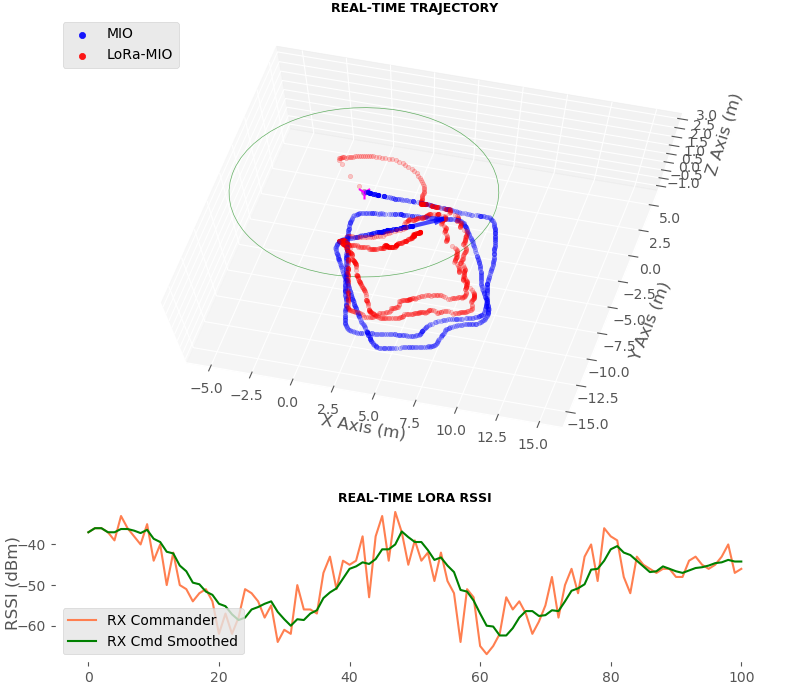
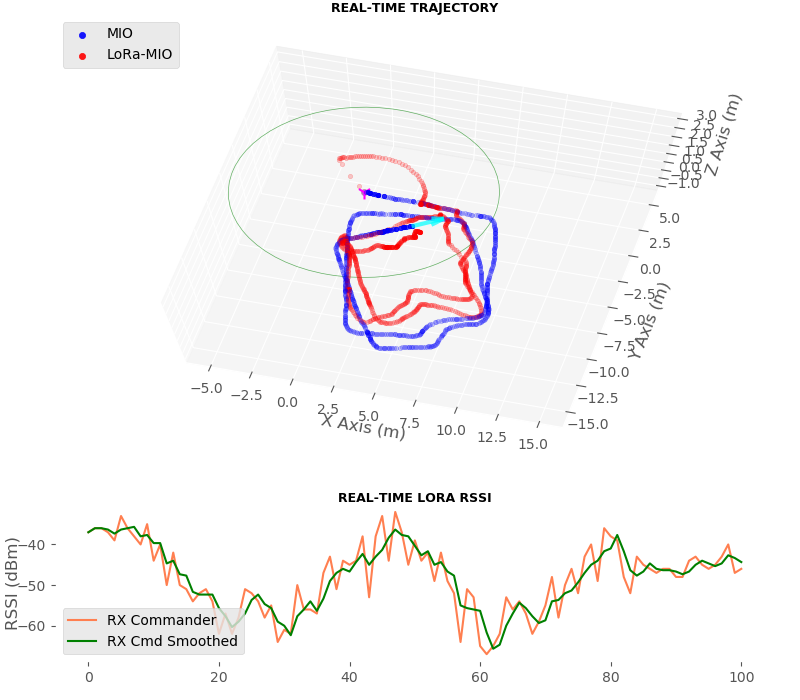
Applied RSSI smoothing at 10Hz; Added RMSE calculator: rmse_left2 = 1.9763m; rmse_left3 = 4.0903m

diff --git a/EKF.py b/EKF.py
@@ -443,6 +443,7 @@ class EKF_Fusion():
         self.rssi_list.extend(rssis)
         if self.anchor:
             self.smoothed_rssi_list.append(self.smoother(self.rssi_list))
+        # TODO Anchor 2,3 not smoothed yet
         if self.anchor >= 2:
             self.rssi_list2.append(rssis[1])
         if self.anchor >= 3:
@@ -559,7 +560,19 @@ class EKF_Fusion():
                 self.rt_show(odom_idx=-g)
 
 
-    def smoother(self, lst, window_size=5, mode='conv'):
+    def rms_traj(self):
+        traj1 = [self.path_dense[i][0:2] for i in range(len(self.path_dense))]
+        traj1 = np.asarray(traj1)
+        traj2 = [self.xs[i][0:2, 0] for i in range(len(self.xs))]
+        traj2 = np.asarray(traj2)
+
+        sqr_sum = 0.
+        for row in range(traj2.shape[0]):
+            sqr_sum += (traj1[row, 0] - traj2[row, 0])**2 + (traj1[row, 1] - traj2[row, 1])**2
+        rmse = sqrt(sqr_sum / traj2.shape[0])
+        return rmse
+
+    def smoother(self, lst, g=10, window_size=5, mode='conv'):
 
         if mode == 'conv':
             if len(lst) >= window_size:
@@ -576,6 +589,13 @@ class EKF_Fusion():
                 return y[-2]
             else:
                 return lst[-1]
+        elif mode == 'ave10':
+            if len(lst) > 3:
+                lst10 = [lst[-1]] * (11 - g) + [lst[-2]] * 10 + [lst[-3]] * 10 + [lst[-4]] * (g - 1)
+                ave_rssi = sum(lst10) / len(lst10)
+            else:
+                ave_rssi = lst[-1]
+            return float(ave_rssi)
         else:
             if len(lst) > 3:
                 ave_rssi = 0.6 * lst[-1] + 0.25 * lst[-2] + 0.15 * lst[-3]
@@ -664,7 +684,7 @@ class EKF_Fusion():
             self.cir3.remove()
 
         self.handle_scat = self.ax21.scatter([traj[odom_idx][0]], [traj[odom_idx][1]], [traj[odom_idx][2]], s=mark_size, color='b', marker='o', alpha=.9, label='MIO')
-        self.handle_arrw = self.ax21.quiver([traj[odom_idx][0]], [traj[odom_idx][1]], [traj[odom_idx][2]], u, v, w, color='cyan', length=2., arrow_length_ratio=0.3, linewidths=3., alpha=.7)
+        self.handle_arrw = self.ax21.quiver([traj[odom_idx][0]], [traj[odom_idx][1]], [traj[odom_idx][2]], u, v, w, color='cyan', length=2., arrow_length_ratio=0.4, linewidths=3., alpha=.7)
         self.handle_scat_ekf = self.ax21.scatter([traj_fuse[-1][0, 0]], [traj_fuse[-1][1, 0]], [0.], s=mark_size, color='r', marker='o', alpha=.9, label='LoRa-MIO')
         # Not Attempting to Visual EKF Updated Orientation
         #self.handle_arrw_ekf = self.ax21.quiver([self.my_kf.x[0, 0]], [self.my_kf.x[1, 0]], [self.my_kf.x[2, 0]], self.U_ekf, self.V_ekf, self.W_ekf, color='r', length=1., alpha=.7)

diff --git a/replay.py b/replay.py
@@ -423,7 +423,10 @@ class EKF_Origin(EKF_Fusion_MultiRX_AngularV):
             final_xyZ = [self.abs_x[-g], self.abs_y[-g], self.abs_yaw[-g]]
             # Populate ONE Rssi for a 'gap' of Poses
             if self.anchor:
-                final_xyZ.append(float(self.smoothed_rssi_list[-1]))  # Utilize Smoothed RSSI for Fusion
+                #final_xyZ.append(float(self.smoothed_rssi_list[-1]))
+                # Smooth RSSIs at 10Hz with (30) samples
+                self.smoothed_rssi_list[-1] = self.smoother(self.rssi_list, g=g, mode='ave10')
+                final_xyZ.append(self.smoothed_rssi_list[-1])
             if self.rssi_list2:
                 final_xyZ.append(self.smoother(self.rssi_list2))
             if self.rssi_list3:
@@ -514,6 +517,7 @@ if __name__=="__main__":
 
                 #plt.pause(0.01)
                 time.sleep(.001)
+                print("RMSE between traj1 & 2 = %.4f m" % ekf.rms_traj())
 
             ekf.fig2.savefig("replay_ekf.png")
 

diff --git a/README.md b/README.md
@@ -20,6 +20,4 @@ Two rounds of left-hand search with EKF which uses absolute 2D poses as measurem
 
 THREE rounds of left-Hand Search using the same model as above. Path constraining effect is explicit:
 
-![left3](https://github.com/zdai257/LoRaRX/blob/main/demo2.png)
-
 ![left3_fine](https://github.com/zdai257/LoRaRX/blob/main/demo20.png)
